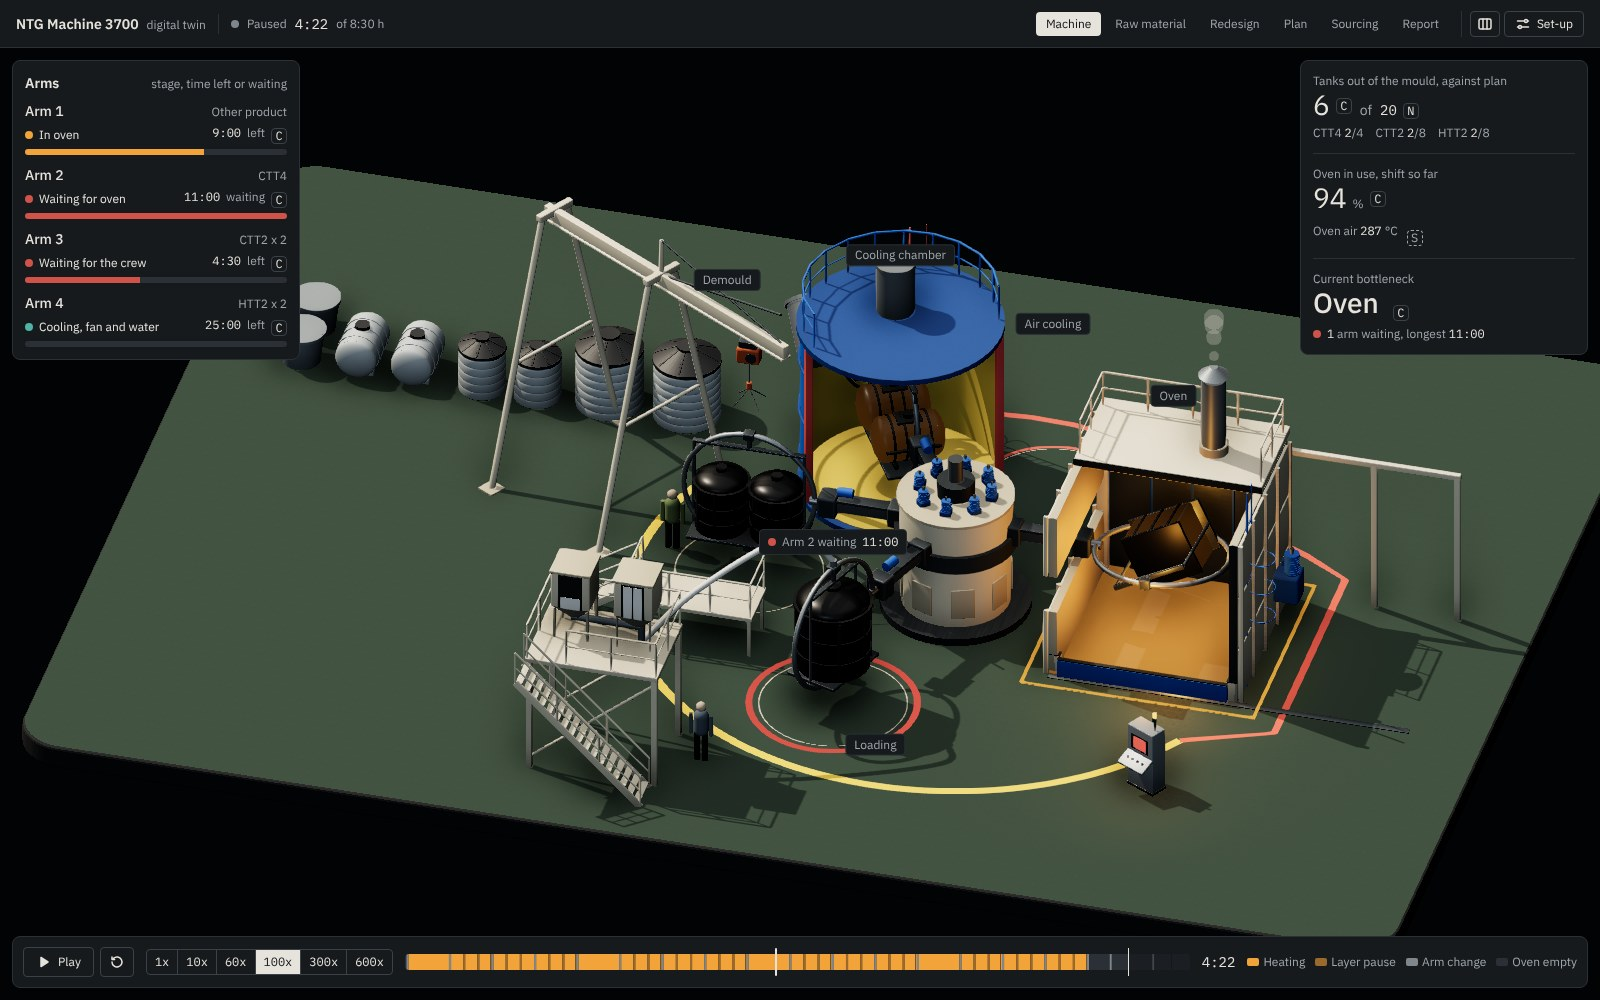
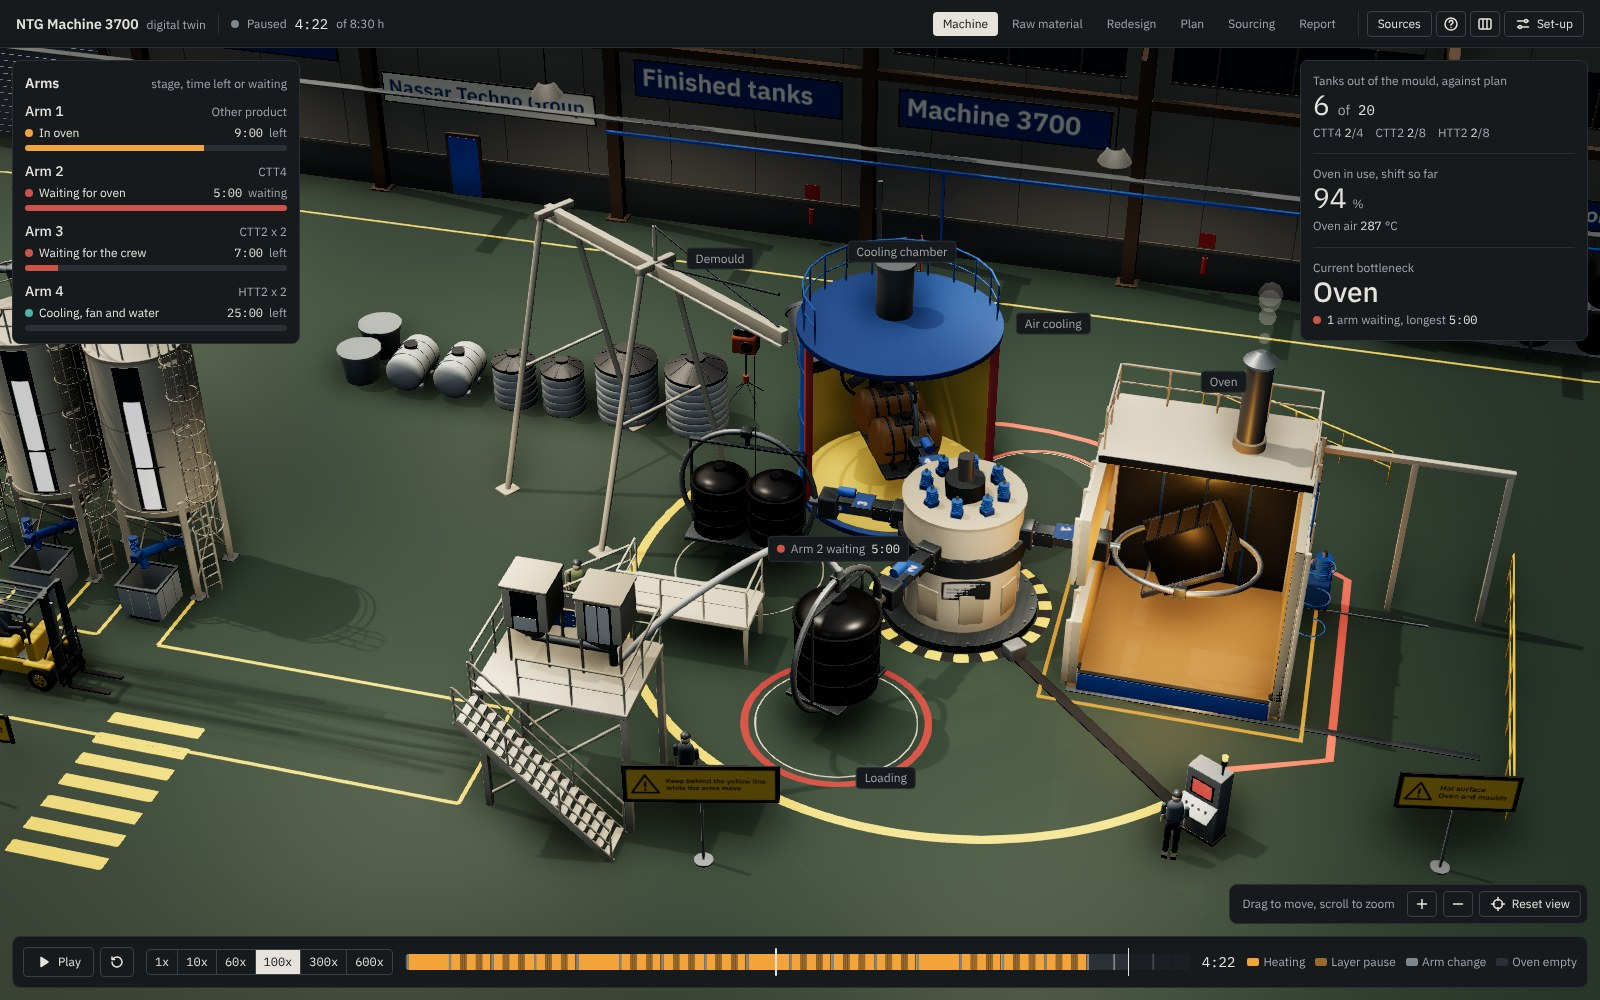
Railings and ladders drawn as single meshes; refreshed screenshots
Claude-Session: https://claude.ai/code/session_01TWvgP4uf49W2EAn66SNcxY

diff --git a/src/scene/parts.tsx b/src/scene/parts.tsx
@@ -6,6 +6,7 @@
 import { useMemo, type ReactNode } from 'react';
 import * as THREE from 'three';
 import { RoundedBox } from '@react-three/drei';
+import { mergeGeometries } from 'three/examples/jsm/utils/BufferGeometryUtils.js';
 import { mats } from './materials';
 
 type V3 = [number, number, number];
@@ -81,27 +82,49 @@ export function Bar({ from, to, r = 0.03, material, segments = 6 }: { from: V3; 
   );
 }
 
-/** Handrail along a polyline on a deck: posts, top rail, mid rail, kick plate. */
+/** One geometry made of many straight round bars: a railing or a ladder is a single draw call instead of dozens. */
+function barsGeometry(bars: { from: V3; to: V3; r: number; segments?: number }[]): THREE.BufferGeometry {
+  const up = new THREE.Vector3(0, 1, 0);
+  const parts = bars.map((b) => {
+    const a = new THREE.Vector3(...b.from);
+    const d = new THREE.Vector3(...b.to).sub(a);
+    const len = d.length();
+    const g = new THREE.CylinderGeometry(b.r, b.r, len, b.segments ?? 6);
+    const q = new THREE.Quaternion().setFromUnitVectors(up, d.clone().normalize());
+    g.applyMatrix4(new THREE.Matrix4().compose(a.addScaledVector(d, 0.5), q, new THREE.Vector3(1, 1, 1)));
+    return g;
+  });
+  const merged = mergeGeometries(parts, false) ?? new THREE.BufferGeometry();
+  parts.forEach((g) => g.dispose());
+  return merged;
+}
+
+/** Handrail along a polyline on a deck: posts, top rail, mid rail. Drawn as one mesh. */
 export function Railing({ points, height = 1.05, material, spacing = 1.1 }: { points: V3[]; height?: number; material?: THREE.Material; spacing?: number }) {
   const m = material ?? mats().cream;
-  const parts: ReactNode[] = [];
-  for (let i = 0; i < points.length - 1; i++) {
-    const a = points[i]!;
-    const b = points[i + 1]!;
-    const len = Math.hypot(b[0] - a[0], b[2] - a[2]);
-    const n = Math.max(1, Math.round(len / spacing));
-    for (let k = 0; k <= n; k++) {
-      if (k === 0 && i > 0) continue;
-      const f = k / n;
-      const x = a[0] + (b[0] - a[0]) * f;
-      const y = a[1] + (b[1] - a[1]) * f;
-      const z = a[2] + (b[2] - a[2]) * f;
-      parts.push(<Bar key={`p${i}-${k}`} from={[x, y, z]} to={[x, y + height, z]} r={0.028} material={m} />);
+  const geo = useMemo(() => {
+    const bars: { from: V3; to: V3; r: number }[] = [];
+    for (let i = 0; i < points.length - 1; i++) {
+      const a = points[i]!;
+      const b = points[i + 1]!;
+      const len = Math.hypot(b[0] - a[0], b[2] - a[2]);
+      const n = Math.max(1, Math.round(len / spacing));
+      for (let k = 0; k <= n; k++) {
+        if (k === 0 && i > 0) continue;
+        const f = k / n;
+        const x = a[0] + (b[0] - a[0]) * f;
+        const y = a[1] + (b[1] - a[1]) * f;
+        const z = a[2] + (b[2] - a[2]) * f;
+        bars.push({ from: [x, y, z], to: [x, y + height, z], r: 0.028 });
+      }
+      bars.push({ from: [a[0], a[1] + height, a[2]], to: [b[0], b[1] + height, b[2]], r: 0.032 });
+      bars.push({ from: [a[0], a[1] + height * 0.52, a[2]], to: [b[0], b[1] + height * 0.52, b[2]], r: 0.022 });
     }
-    parts.push(<Bar key={`t${i}`} from={[a[0], a[1] + height, a[2]]} to={[b[0], b[1] + height, b[2]]} r={0.032} material={m} />);
-    parts.push(<Bar key={`m${i}`} from={[a[0], a[1] + height * 0.52, a[2]]} to={[b[0], b[1] + height * 0.52, b[2]]} r={0.022} material={m} />);
-  }
-  return <group>{parts}</group>;
+    return barsGeometry(bars);
+    // The points arrays are written inline by callers, so compare by value.
+    // eslint-disable-next-line react-hooks/exhaustive-deps
+  }, [JSON.stringify(points), height, spacing]);
+  return <mesh geometry={geo} material={m} receiveShadow />;
 }
 
 /** Straight stair rising along +x from the origin. */
@@ -128,20 +151,23 @@ export function Stairs({ width = 0.9, rise, run, material, rails = true }: { wid
   );
 }
 
-/** Vertical ladder with a safety cage, as on the chamber drawings. */
+/** Vertical ladder with a safety cage, as on the chamber drawings. Rails and rungs are one mesh. */
 export function Ladder({ height, cage = true, material }: { height: number; cage?: boolean; material?: THREE.Material }) {
   const m = material ?? mats().blue;
-  const rungs = Math.round(height / 0.3);
+  const geo = useMemo(() => {
+    const bars: { from: V3; to: V3; r: number }[] = [
+      { from: [-0.22, 0, 0], to: [-0.22, height + 1, 0], r: 0.025 },
+      { from: [0.22, 0, 0], to: [0.22, height + 1, 0], r: 0.025 },
+    ];
+    for (let i = 0; i < Math.round(height / 0.3); i++) bars.push({ from: [-0.22, 0.3 * (i + 1), 0], to: [0.22, 0.3 * (i + 1), 0], r: 0.015 });
+    return barsGeometry(bars);
+  }, [height]);
   return (
     <group>
-      <Bar from={[-0.22, 0, 0]} to={[-0.22, height + 1, 0]} r={0.025} material={m} />
-      <Bar from={[0.22, 0, 0]} to={[0.22, height + 1, 0]} r={0.025} material={m} />
-      {Array.from({ length: rungs }, (_, i) => (
-        <Bar key={i} from={[-0.22, 0.3 * (i + 1), 0]} to={[0.22, 0.3 * (i + 1), 0]} r={0.015} material={m} segments={6} />
-      ))}
+      <mesh geometry={geo} material={m} receiveShadow />
       {cage &&
         Array.from({ length: Math.max(1, Math.floor((height - 2) / 0.9)) }, (_, i) => (
-          <mesh key={`c${i}`} position={[0, 2.2 + i * 0.9, 0.34]} rotation={[Math.PI / 2, 0, 0]} material={m} castShadow>
+          <mesh key={`c${i}`} position={[0, 2.2 + i * 0.9, 0.34]} rotation={[Math.PI / 2, 0, 0]} material={m}>
             <torusGeometry args={[0.36, 0.015, 6, 20, Math.PI * 1.25]} />
           </mesh>
         ))}
